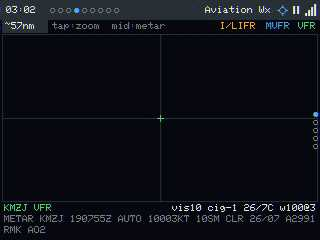
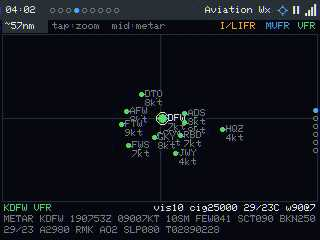
docs: 1-column image+caption README layout; dense map shots; launch-alert
- README: every screenshot is now its own full-width 1-col/2-row table (image on
  top, caption below) so shots aren't squeezed small by side-by-side columns.
- Re-captured the Aviation Map / Pressure / Trends at a dense inland metro
  (Dallas-Fort Worth) so they're populated instead of the sparse coastal shots;
  Launches now uses the live "Launch in 6m" Director-alert frame with the
  visibility verdict.
- README_GUIDELINES: layout rule updated to the 1-col-per-image table (full width)
  instead of 2-col side-by-side.

diff --git a/README.md b/README.md
@@ -2,9 +2,10 @@
 
 **An air-&-space situational-awareness dashboard for a $10 touchscreen — the sky, on your desk, updating in real time.**
 
-![The 2017 Great American Eclipse, recreated as a saved "memory sky"](docs/img/starmap-memory.jpg)
-
-*Above: a saved **memory sky** — the exact sky over Hopkinsville, KY at 18:25 UTC on 21 Aug 2017, the moment of greatest eclipse, with the Sun (note the corona ring), Regulus right beside it, and the planets strung along the ecliptic, recreated on the device.*
+| |
+|---|
+| ![The 2017 Great American Eclipse, recreated as a saved "memory sky"](docs/img/starmap-memory.jpg) |
+| *A saved **memory sky** — the exact sky over Hopkinsville, KY at 18:25 UTC on 21 Aug 2017, the moment of greatest eclipse, with the Sun (note the corona ring), Regulus right beside it, and the planets strung along the ecliptic, recreated on the device.* |
 
 ---
 
@@ -62,32 +63,56 @@ long-press to **pin**.
 
 ### 0 · Agenda — *your night at a glance*
 
-| | |
-|---|---|
-| ![Agenda](docs/img/page0-agenda.jpg) | The **Sky Window**: a 24 h timeline that shades day → civil → nautical → astronomical darkness, paints a cloud-cover heat band across the top of each hour and a moon-up band along the bottom, and tick-marks every event with a legend. Underneath: the **clear-&-dark verdict** ("Clear & dark 02:35–04:35"), a **tonight's-sky** line of the naked-eye planets and the constellations with ≥3 stars up during the darkest hour (it even calls out an active meteor shower's ZHR), and a scrollable **Upcoming** list with cloud-% coloured per event. **Tap any event — in the timeline or the list — to jump straight to its tab and focus that exact item.** |
+| |
+|---|
+| ![Agenda](docs/img/page0-agenda.jpg) |
+| The **Sky Window**: a 24 h timeline that shades day → civil → nautical → astronomical darkness, paints a cloud-cover heat band across the top of each hour and a moon-up band along the bottom, and tick-marks every event with a legend. Underneath: the **clear-&-dark verdict** ("Clear & dark 02:35–04:35"), a **tonight's-sky** line of the naked-eye planets and the constellations with ≥3 stars up during the darkest hour (it even calls out an active meteor shower's ZHR), and a scrollable **Upcoming** list with cloud-% coloured per event. **Tap any event — in the timeline or the list — to jump straight to its tab and focus that exact item.** |
 
 ### 1 · Launches — *what's going up*
 
-| | |
-|---|---|
-| The next launch: provider, vehicle, mission, pad, country, a colour-coded **status pill** (Go / Hold / TBD), and a big `T-` countdown — precise launches tick `T-HH:MM:SS`, vague ones show `~ MMM DD` with the precision noted. The line **"see: 809 km W — faint (night, far)"** is the **visibility verdict**: Overhead works out whether *you* could see the launch (twilight-plume geometry, distance, cloud) and rates it likely / faint / unlikely. The upcoming list marks each with a green/amber visibility dot. *(This frame also shows the Director's **"Launch in 6m"** interrupt banner in the status strip.)* | ![Launch card with the Director's launch alert + visibility verdict](docs/img/director-alert.jpg) |
-| ![Launches map](docs/img/launches-map.jpg) | The **Map**: a world map with a marker at every upcoming launch site. The selected pad gets a ring and a **launch-corridor azimuth arrow**, and a sight-line from your crosshair coloured by the visibility verdict. Side-tap steps launches; bottom chips filter by **time window** (24 h / 7 d / 30 d / all), **hide-TBD**, **visible-only**, **site**, and **provider**. |
+| |
+|---|
+| ![Launch card with the Director's launch alert + visibility verdict](docs/img/director-alert.jpg) |
+| The next launch: provider, vehicle, mission, pad, country, a colour-coded **status pill** (Go / Hold / TBD), and a big `T-` countdown — precise launches tick `T-HH:MM:SS`, vague ones show `~ MMM DD`. The line **"see: 809 km W — faint (night, far)"** is the **visibility verdict**: Overhead works out whether *you* could see the launch (twilight-plume geometry, distance, cloud) and rates it likely / faint / unlikely. *(This frame also caught the Director's **"Launch in 6m"** interrupt banner in the status strip — the cross-tab alert in action.)* |
+
+| |
+|---|
+| ![Launches map](docs/img/launches-map.jpg) |
+| The **Map** (centre-tap toggles to it): a world map with a marker at every upcoming launch site. The selected pad gets a ring and a **launch-corridor azimuth arrow**, and a sight-line from your crosshair coloured by the visibility verdict. Side-tap steps launches; bottom chips filter by **time window** (24 h / 7 d / 30 d / all), **hide-TBD**, **visible-only**, **site**, and **provider**. |
 
 ### 2 · Aircraft — *who's overhead right now*
 
-| | |
-|---|---|
-| ![Aircraft radar](docs/img/page2-aircraft.jpg) | A north-up **ADS-B radar** with range rings (your range + 5/10 nm reference), per-blip **heading chevrons**, and **dead-reckoned** motion between updates. Tap a blip → callsign, type, altitude, ground speed + track, distance/bearing, and the **look az/el** (where to point binoculars). An **emergency squawk** (7700/7600/7500) rings the contact and raises a banner; HOME + airport chips recenter the radar; chips filter range / on-ground / altitude / category; a marquee scrolls the **nearest airport + its frequencies**. *(Shown at a quiet field — and note a real limit: on a no-PSRAM board the live ADS-B fetch competes with the screenshot buffer for heap, so a busy radar is hard to **screenshot** even when it's lively on the glass — see Limitations.)* |
+| |
+|---|
+| ![Aircraft radar](docs/img/page2-aircraft.jpg) |
+| A north-up **ADS-B radar** with range rings (your range + 5/10 nm reference), per-blip **heading chevrons**, and **dead-reckoned** motion between updates. Tap a blip → callsign, type, altitude, ground speed + track, distance/bearing, and the **look az/el** (where to point binoculars). An **emergency squawk** (7700/7600/7500) rings the contact and raises a banner; HOME + airport chips recenter the radar; chips filter range / on-ground / altitude / category; a marquee scrolls the **nearest airport + its frequencies**. *(Shown at a quiet field — and note a real limit: on a no-PSRAM board the live ADS-B fetch competes with the screenshot buffer for heap, so a busy radar is hard to **screenshot** even when it's lively on the glass — see Limitations.)* |
 
 ### 3 · Aviation weather — *the sky's flight briefing*
 
-| | |
-|---|---|
-| ![Flight-category map](docs/img/aviation-map.jpg) | **Map** — airports coloured by flight category (VFR green / MVFR cyan / IFR-LIFR orange), wind barbs + id labels, observer crosshair, tappable zoom. |
-| **METAR** — a fully decoded card: Zulu + local obs time, wind (kt + mph), visibility, ceiling, temp/dewpoint (°C + °F), QNH (hPa + inHg), present-weather, and the raw text. Station chips jump between nearby fields. | ![Decoded METAR card](docs/img/aviation-metar.jpg) |
-| ![Skew-T sounding](docs/img/aviation-sounding.jpg) | **Sounding** — a Skew-T model profile: temperature + dewpoint vs altitude, the **freezing level**, **winds aloft** at 3/10/20/30 kft, a dashed dry-parcel line, and a soaring **stability analysis** (cloud base / top-of-lift / inversion). |
-| **Trends** — 24 h area sparklines for temp / dewpoint / cloud / pressure with a plain-language conclusion ("pressure steady", "+ fog/low-cld risk", "clearing"). | ![24h area trends](docs/img/aviation-trends.jpg) |
-| ![Synoptic pressure map](docs/img/aviation-pressure.jpg) | **Pressure** — a makeshift synoptic map from major-airport METARs: H/L markers, blue-high/red-low colouring, cloud rings, hPa/inHg/cloud modes, and **tap-to-zoom levels** (off / 2.6× / 4.5× / 7×) that bring in wind barbs. *(Denser inland regions fill this in more than a coastal one.)* |
+| |
+|---|
+| ![Flight-category map](docs/img/aviation-map.jpg) |
+| **Map** — airports coloured by flight category (VFR green / MVFR cyan / IFR-LIFR orange), with **wind barbs**, id labels, an observer crosshair, and tappable zoom. Side-tap steps fields; centre-tap cycles views. |
+
+| |
+|---|
+| ![Decoded METAR card](docs/img/aviation-metar.jpg) |
+| **METAR** — a fully decoded card: Zulu + local obs time, wind (kt + mph), visibility, ceiling, temp/dewpoint (°C + °F), QNH (hPa + inHg), present-weather, and the raw text. Station chips jump between nearby fields. |
+
+| |
+|---|
+| ![Skew-T sounding](docs/img/aviation-sounding.jpg) |
+| **Sounding** — a Skew-T model profile: temperature + dewpoint vs altitude, the **freezing level**, **winds aloft** at 3/10/20/30 kft, a dashed dry-parcel line, and a soaring **stability analysis** (cloud base / top-of-lift / inversion). |
+
+| |
+|---|
+| ![24h area trends](docs/img/aviation-trends.jpg) |
+| **Trends** — 24 h area sparklines for temp / dewpoint / cloud / pressure with a plain-language conclusion ("pressure steady", "+ fog/low-cld risk", "clearing"). |
+
+| |
+|---|
+| ![Synoptic pressure map](docs/img/aviation-pressure.jpg) |
+| **Pressure** — a makeshift synoptic map from major-airport METARs: H/L markers, blue-high/red-low colouring, cloud rings, hPa/inHg/cloud modes, and **tap-to-zoom levels** (off / 2.6× / 4.5× / 7×) that bring in wind barbs. |
 
 Two more views appear **only when there's data**: a **TAF** view (decoded FM/BECMG/TEMPO/PROB
 periods) when a field carries one, and a **Hazards** view (AIRMET/SIGMET/PIREP in plain
@@ -97,43 +122,93 @@ strong wind) is surfaced cross-tab as a notice instead (see the Director).
 
 ### 4 · Satellites — *catch the pass*
 
-| | |
-|---|---|
-| ![Polar pass view](docs/img/satellites-polar.jpg) | **Polar** — a sky-dome with the predicted **pass-trajectory arc** (solid above your min-elevation, dashed below), AOS/LOS markers + times, max elevation, sunlit-vs-eclipsed flag, live range, and — for FM birds — **live Doppler** uplink/downlink ("DL 145.800 −1.2k"). Counts down "AOS T-7h17m max 44°". |
-| **Ground** — the world **ground track** for ~one orbit, the sub-satellite point (sunlit/eclipsed), the day/night-aware subsolar marker, and your location. Side-tap steps your watchlist; a chip cycles the **min-elevation filter**. Passes use SGP4 from cached TLEs — so it **works offline**. | ![Ground track](docs/img/satellites-ground.jpg) |
+| |
+|---|
+| ![Polar pass view](docs/img/satellites-polar.jpg) |
+| **Polar** — a sky-dome with the predicted **pass-trajectory arc** (solid above your min-elevation, dashed below), AOS/LOS markers + times, max elevation, sunlit-vs-eclipsed flag, live range, and — for FM birds — **live Doppler** uplink/downlink ("DL 145.800 −1.2k"). Counts down "AOS T-7h17m max 44°". |
+
+| |
+|---|
+| ![Ground track](docs/img/satellites-ground.jpg) |
+| **Ground** — the world **ground track** for ~one orbit, the sub-satellite point (sunlit/eclipsed), the day/night-aware subsolar marker, and your location. Side-tap steps your watchlist; a chip cycles the **min-elevation filter**. Passes use SGP4 from cached TLEs — so it **works offline**. |
 
 ### 5 · Space weather — *is the Sun acting up?*
 
-| | |
-|---|---|
-| ![Space weather](docs/img/page5-spacewx.jpg) | A **Kp** gauge + a 3-day history sparkline, the solar flux index, GOES **X-ray flare class** (C/M/X), **solar-wind speed** and **IMF Bz**, an **aurora-chance** read for your own geomagnetic latitude (it computes the auroral-oval boundary from Kp), and an HF **band-conditions** table (80–10 m, day/night) from an SFI+Kp heuristic. |
+| |
+|---|
+| ![Space weather](docs/img/page5-spacewx.jpg) |
+| A **Kp** gauge + a 3-day history sparkline, the solar flux index, GOES **X-ray flare class** (C/M/X), **solar-wind speed** and **IMF Bz**, an **aurora-chance** read for your own geomagnetic latitude (it computes the auroral-oval boundary from Kp), and an HF **band-conditions** table (80–10 m, day/night) from an SFI+Kp heuristic. |
 
 ### 6 · Solar System — *the neighbourhood tour*
 
-| | |
-|---|---|
-| ![Sky-dome](docs/img/solar-skydome.jpg) | **Sky-dome** — Sun/Moon/planets by az/el on a horizon dome, each with a **naked-eye visibility rating** (easy/twilight/washed/scope), rise/transit/set, the closest **conjunction** when bodies are <5° apart, and an optional constellation-line star overlay. |
-| **Orbits** — a top-down **orrery** at live heliocentric longitudes (√-scaled rings so Mercury isn't crushed by Pluto), with minor bodies/Starman, and each body's **orbital speed around the Sun in km/h and mph**. | ![Orbits](docs/img/solar-orbits.jpg) |
-| ![Moon](docs/img/solar-moon.jpg) | **Moon** — phase + illumination %, distance, and **near/far-side maps** with Apollo crewed, robotic, and 2024+ CLPS **landing sites**, plus the sub-Earth/sub-solar points. |
-| **Jupiter** — the four Galilean moons strung along the equator in Jupiter-radii, with the whole system **tilted by the parallactic angle to match your sky** ("field tilt N° for your sky"). | ![Jupiter](docs/img/solar-jupiter.jpg) |
-| ![Saturn](docs/img/solar-saturn.jpg) | **Saturn** — the disk + rings with the live **opening angle** ("rings 26° open, north face") and a Cassini-division hint, also tilted to your sky. |
-| **Deep Space** — Voyager 1/2 & New Horizons distances in AU + light-hours, plus in-flight missions (Psyche, Europa Clipper, JWST, Parker). | ![Deep space](docs/img/solar-deepspace.jpg) |
-| ![Meteor showers](docs/img/solar-showers.jpg) | **Meteor showers** — upcoming showers in date order with ZHR, days-to-peak, and a **radiant-quality** rating from your latitude (great/good/low/poor); active showers flagged "NOW". |
+| |
+|---|
+| ![Sky-dome](docs/img/solar-skydome.jpg) |
+| **Sky-dome** — Sun/Moon/planets by az/el on a horizon dome, each with a **naked-eye visibility rating** (easy/twilight/washed/scope), rise/transit/set, the closest **conjunction** when bodies are <5° apart, and an optional constellation-line star overlay. |
+
+| |
+|---|
+| ![Orbits](docs/img/solar-orbits.jpg) |
+| **Orbits** — a top-down **orrery** at live heliocentric longitudes (√-scaled rings so Mercury isn't crushed by Pluto), with minor bodies/Starman, and each body's **orbital speed around the Sun in km/h and mph**. |
+
+| |
+|---|
+| ![Moon](docs/img/solar-moon.jpg) |
+| **Moon** — phase + illumination %, distance, and **near/far-side maps** with Apollo crewed, robotic, and 2024+ CLPS **landing sites**, plus the sub-Earth/sub-solar points. |
+
+| |
+|---|
+| ![Mars](docs/img/solar-mars.jpg) |
+| **Mars** — distance + light-time, a surface map with polar caps and Olympus/Marineris, the sub-Earth circle, and **rover sols** (Perseverance/Curiosity) with status. |
+
+| |
+|---|
+| ![Jupiter](docs/img/solar-jupiter.jpg) |
+| **Jupiter** — the four Galilean moons strung along the equator in Jupiter-radii, with the whole system **tilted by the parallactic angle to match your sky** ("field tilt N° for your sky"). |
+
+| |
+|---|
+| ![Saturn](docs/img/solar-saturn.jpg) |
+| **Saturn** — the disk + rings with the live **opening angle** ("rings 26° open, north face") and a Cassini-division hint, also tilted to your sky. |
+
+| |
+|---|
+| ![Deep space](docs/img/solar-deepspace.jpg) |
+| **Deep Space** — Voyager 1/2 & New Horizons distances in AU + light-hours, plus in-flight missions (Psyche, Europa Clipper, JWST, Parker). |
+
+| |
+|---|
+| ![Meteor showers](docs/img/solar-showers.jpg) |
+| **Meteor showers** — upcoming showers in date order with ZHR, days-to-peak, and a **radiant-quality** rating from your latitude (great/good/low/poor); active showers flagged "NOW". |
 
 ### 7 · Star Map — *the whole sky, and the night you remember*
 
-| | |
-|---|---|
-| ![Full sky](docs/img/starmap-full.jpg) | **Full sky** — an all-sky azimuthal chart from a real generated catalogue (HYG + d3-celestial): ~1500 stars, all 88 **constellation figures**, Messier **deep-sky markers**, the ecliptic, and the Sun (a small **corona ring** so it reads clearly without washing out the chart)/Moon/planets. |
-| **Tap to zoom** — tap any region and it magnifies: fainter stars fade in and star + constellation names appear, with a centre az/el readout. | ![Tap to zoom](docs/img/starmap-zoom.jpg) |
-| ![Constellation tour](docs/img/starmap-tour.jpg) | **Tour** — a badge auto-zooms each above-horizon constellation in turn (here, Andromeda), naming its stars, then moves on. Bottom badges cycle the **magnitude limit** and toggle the Sun/planets overlay + the tour. |
-| **Memory skies** — save "the sky at *this moment* from *this place*" (a birthday, an eclipse) and it renders the **full** sky for that exact instant and lat/lon, captioned title + place (top-left) and date + coordinates (top-right). **Swipe up/down to cycle** between the live sky and your saved skies — the **view dots on the right edge** show where you are. Add/edit them in the web UI's **Memory Skies** tab. | ![Memory sky](docs/img/starmap-memory.jpg) |
+| |
+|---|
+| ![Full sky](docs/img/starmap-full.jpg) |
+| **Full sky** — an all-sky azimuthal chart from a real generated catalogue (HYG + d3-celestial): ~1500 stars, all 88 **constellation figures**, Messier **deep-sky markers**, the ecliptic, and the Sun (a small **corona ring** so it reads clearly without washing out the chart)/Moon/planets. |
+
+| |
+|---|
+| ![Tap to zoom](docs/img/starmap-zoom.jpg) |
+| **Tap to zoom** — tap any region and it magnifies: fainter stars fade in and star + constellation names appear, with a centre az/el readout. |
+
+| |
+|---|
+| ![Constellation tour](docs/img/starmap-tour.jpg) |
+| **Tour** — a badge auto-zooms each above-horizon constellation in turn (here, Andromeda), naming its stars, then moves on. Bottom badges cycle the **magnitude limit** and toggle the Sun/planets overlay + the tour. |
+
+| |
+|---|
+| ![Memory sky](docs/img/starmap-memory.jpg) |
+| **Memory skies** — save "the sky at *this moment* from *this place*" (a birthday, an eclipse) and it renders the **full** sky for that exact instant and lat/lon, captioned title + place (top-left) and date + coordinates (top-right). **Swipe up/down to cycle** between the live sky and your saved skies — the **view dots on the right edge** show where you are. Add/edit them in the web UI's **Memory Skies** tab. |
 
 ### 8 · Device Health — *under the hood*
 
-| | |
-|---|---|
-| ![Health](docs/img/page8-health.jpg) | The system table (WiFi, heap + **largest-block low-water** + **httpsSkip**, filesystem, uptime, location) and per-provider **status + age in d/h/m/s**, plus on-device controls: cycle the display palette (Auto/Day/Night/Red) and brightness, toggle remote screenshots, **Refresh** all providers, **Recalibrate** touch, and a two-tap **Reboot**. *(WiFi SSID and LAN IP boxed out here.)* |
+| |
+|---|
+| ![Health](docs/img/page8-health.jpg) |
+| The system table (WiFi, heap + **largest-block low-water** + **httpsSkip**, filesystem, uptime, location) and per-provider **status + age in d/h/m/s**, plus on-device controls: cycle the display palette (Auto/Day/Night/Red) and brightness, toggle remote screenshots, **Refresh** all providers, **Recalibrate** touch, and a two-tap **Reboot**. *(WiFi SSID and LAN IP boxed out here.)* |
 
 ---
 
@@ -141,15 +216,24 @@ strong wind) is surfaced cross-tab as a notice instead (see the Director).
 
 These have no single tab — they're part of the whole experience.
 
-| | |
-|---|---|
-| ![Clock-mode overlay](docs/img/clock-overlay.jpg) | **Clock-mode overlay** — tap the time and a big clock stamps over the live page (static lower-right on data pages, corner-hopping on calm ones for burn-in); chips toggle 24 h/AM-PM and digital/analog, with a date complication. |
-| **3×3 quick-jump grid** — tap the page dots and every tile shows a live micro-status (next launch T-, ISS AOS, nearest METAR, Kp, constellations up…); tap a badged tile to land on its alert. | ![3x3 quick-jump grid](docs/img/grid.jpg) |
-| ![Red dark-adapt theme](docs/img/red-theme.jpg) | **Day / Night / Red dark-adapt themes** — auto by sun altitude or forced from Health; the red palette preserves night vision at the eyepiece. |
+| |
+|---|
+| ![Clock-mode overlay](docs/img/clock-overlay.jpg) |
+| **Clock-mode overlay** — tap the time and a big clock stamps over the live page (static lower-right on data pages, corner-hopping on calm ones for burn-in); chips toggle 24 h/AM-PM and digital/analog, with a date complication. |
+
+| |
+|---|
+| ![3x3 quick-jump grid](docs/img/grid.jpg) |
+| **3×3 quick-jump grid** — tap the page dots and every tile shows a live micro-status (next launch T-, ISS AOS, nearest METAR, Kp, constellations up…); tap a badged tile to land on its alert. |
+
+| |
+|---|
+| ![Red dark-adapt theme](docs/img/red-theme.jpg) |
+| **Day / Night / Red dark-adapt themes** — auto by sun altitude or forced from Health; the red palette preserves night vision at the eyepiece. *(Shown here on a memory sky.)* |
 
 - **Intelligent Focus director** — the cross-tab brain. An ambient resting tab by
   day/night with a multi-page attract tour; **interrupts** that seize focus for an
-  imminent **pass** ("ISS 45° in 3m · VIS") or **launch** ("Launch in 6m" — *as in the
+  imminent **pass** ("ISS 45° in 3m · VIS") or **launch** ("Launch in 6m" — *the
   Launches shot above*); and **notice badges** for Kp storms, aviation SPECIs, hazards,
   and extreme weather. In AUTO it switches the carousel (with a brief **"▸ page"**
   banner) and pre-focuses the exact item; in MANUAL it just badges the tab. A *new*

diff --git a/README_GUIDELINES.md b/README_GUIDELINES.md
@@ -35,14 +35,13 @@ detail, with real screenshots. The "boring" setup lives in a separate linked fil
 - **Caption every screenshot** with what's cool about that view — never dump bare
   images into a grid with no words. The caption carries the "what it shows / what's
   cool / how to operate it".
-- **Use a 2-column table at most.** Put the **image in one column and its caption/
-  description in the other**, and **alternate** sides down the page (image-left/text-
-  right, then text-left/image-right) for visual rhythm. Do NOT make wide 3-/4-up image
-  grids — they read as a screenshot dump.
-- **Use the 2-column image+caption table even for a single screenshot** (e.g. Space
-  Weather, Agenda, Health) — one row, image one side, caption the other. Consistency.
-- For a page with several sub-views, stack them as successive 2-col rows (alternating
-  sides), each captioned.
+- **One image per table, as a 1-column / 2-row table: the image on top, its caption in
+  the row below.** This keeps every screenshot at full width — 2-/3-/4-up grids squeeze
+  the 320×240 shots down small, which reads as a screenshot dump and loses detail.
+- **Every screenshot gets its own such table, including single-shot pages** (Agenda,
+  Space Weather, Health) — one image, one caption, full width.
+- For a page with several sub-views, stack a separate 1-col image+caption table per
+  sub-view.
 
 ## 2. Required README structure (in order)
 